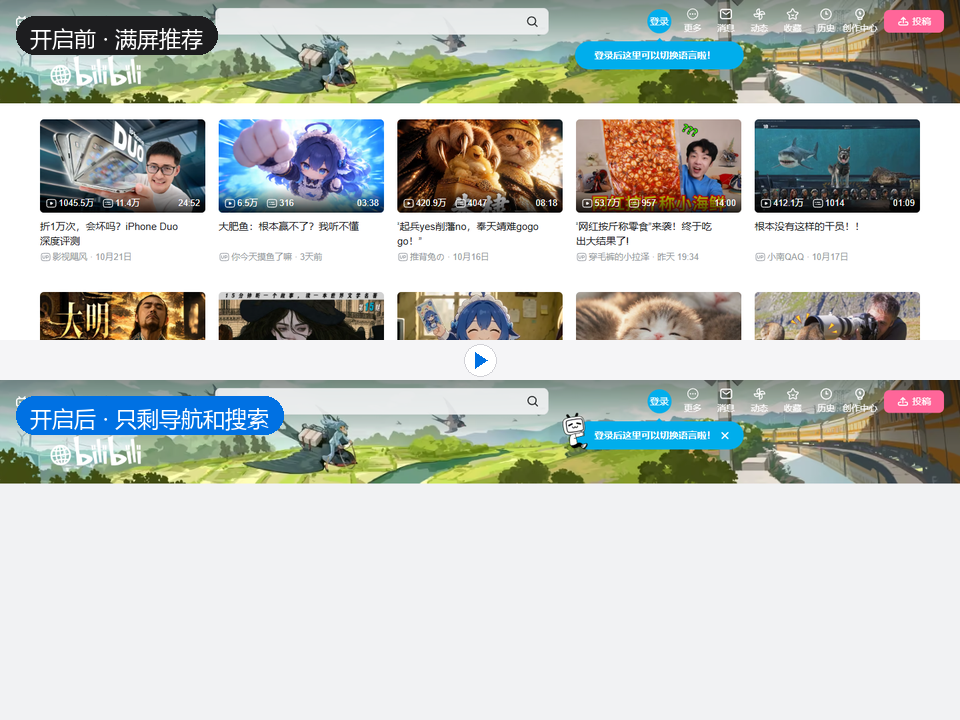
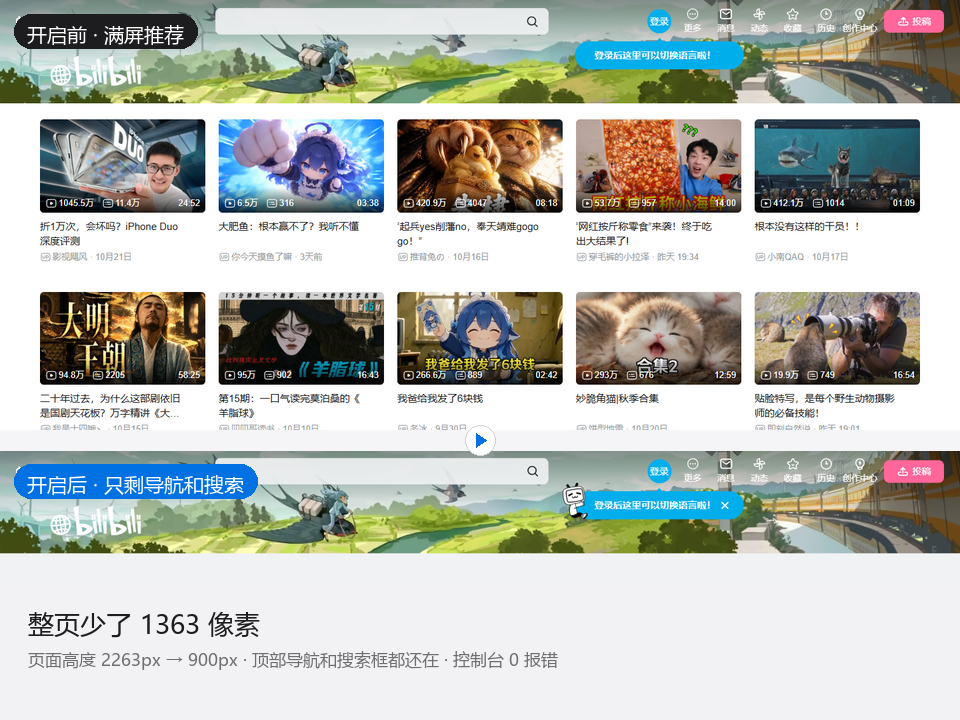
插件卡配图改为前后对比 + 数据条，压缩元信息避免换行

Changed region(s): [[0.0, 0.4583, 1.0, 0.7944], [0.0312, 0.8556, 0.5938, 0.9472], [0.0312, 0.0, 0.25, 0.0917]]

diff --git a/works.html b/works.html
@@ -41,7 +41,7 @@
 </main>
 
 <footer class="foot wrap" style="margin-top:56px">
-  占位块上都标了真实尺寸。换成自己的截图时按那个尺寸裁，排版不会乱。
+  配图统一按 960×720 裁，换自己的截图时保持这个比例，排版不会乱。
 </footer>
 
 <script>
@@ -71,8 +71,8 @@ const WORKS = [
     cat: "plugin",
     title: "静一静",
     desc: "把 B站 首页的推荐流藏掉，只留导航和搜索。装进 Edge，页面立刻安静。",
-    tag: "Manifest V3 / content script",
-    status: "可用 · 本地加载",
+    tag: "Edge 扩展",
+    status: "已做出",
     state: "done",
     img: "assets/works/bili-quiet.png",
     href: "https://github.com/1909199162-maker/bili-quiet",
